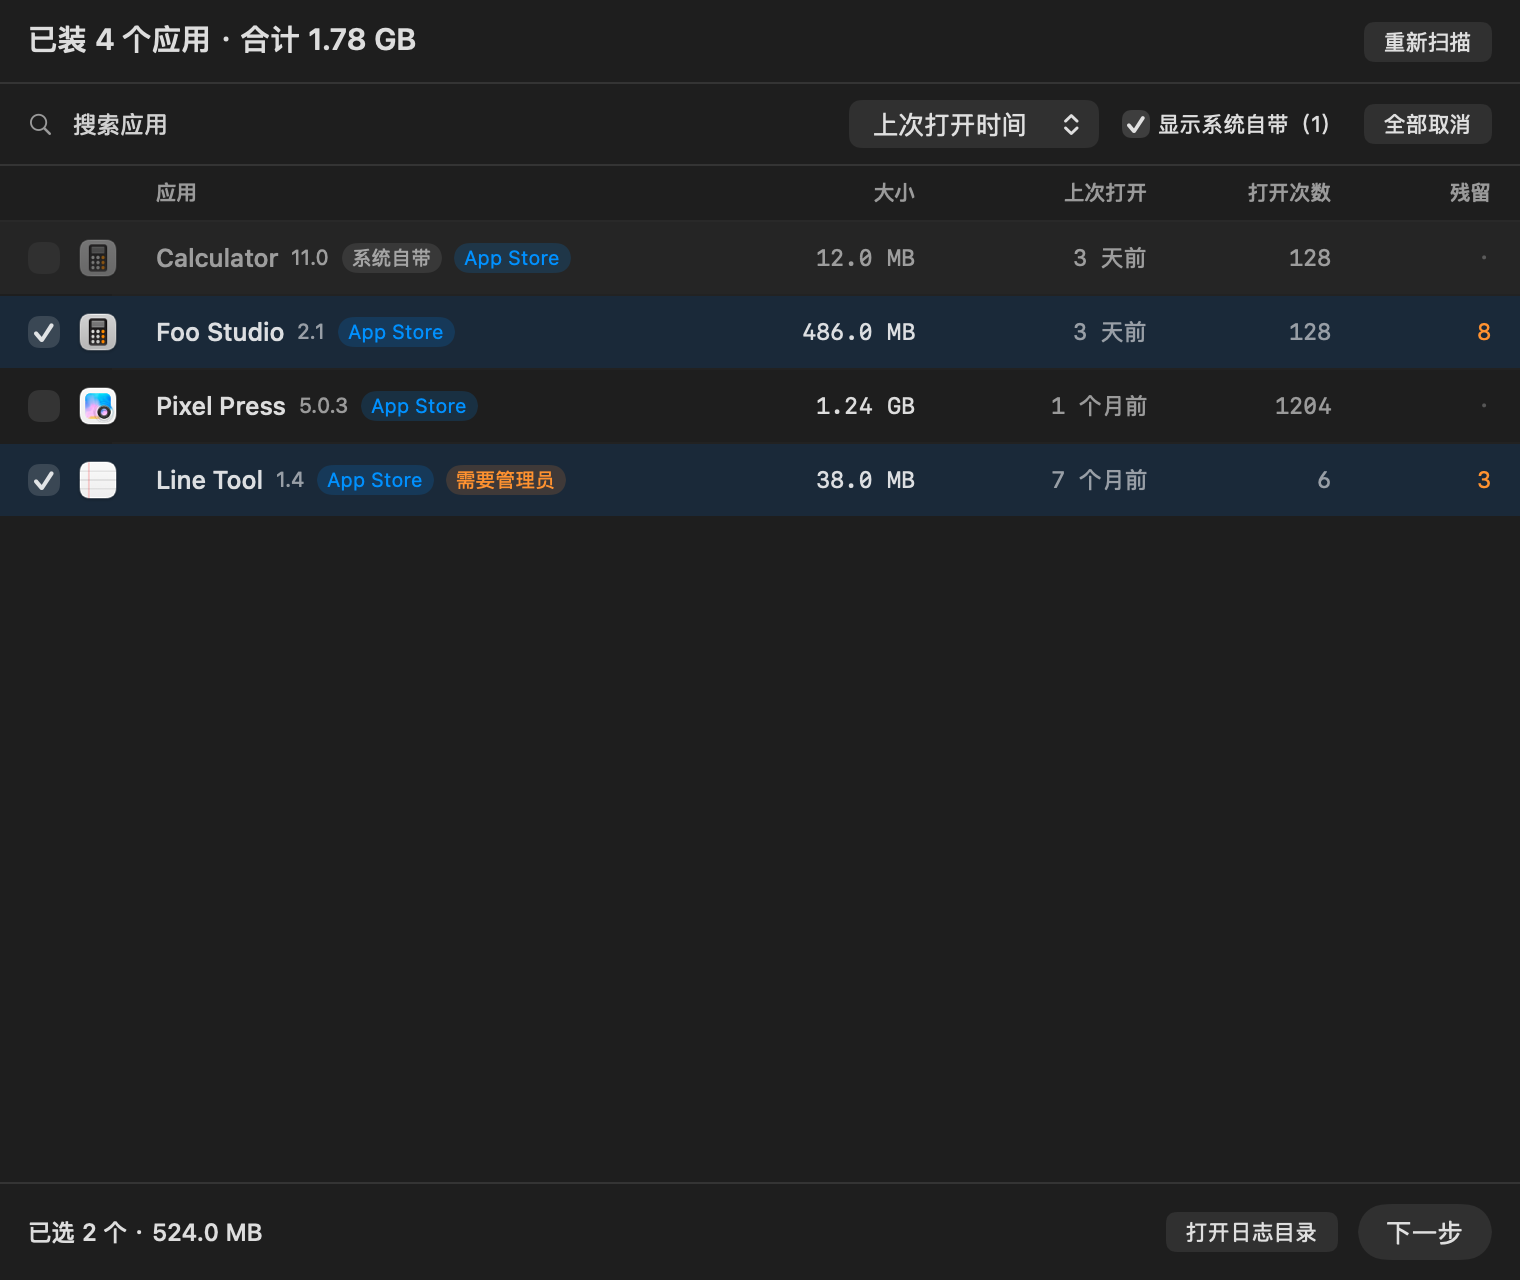
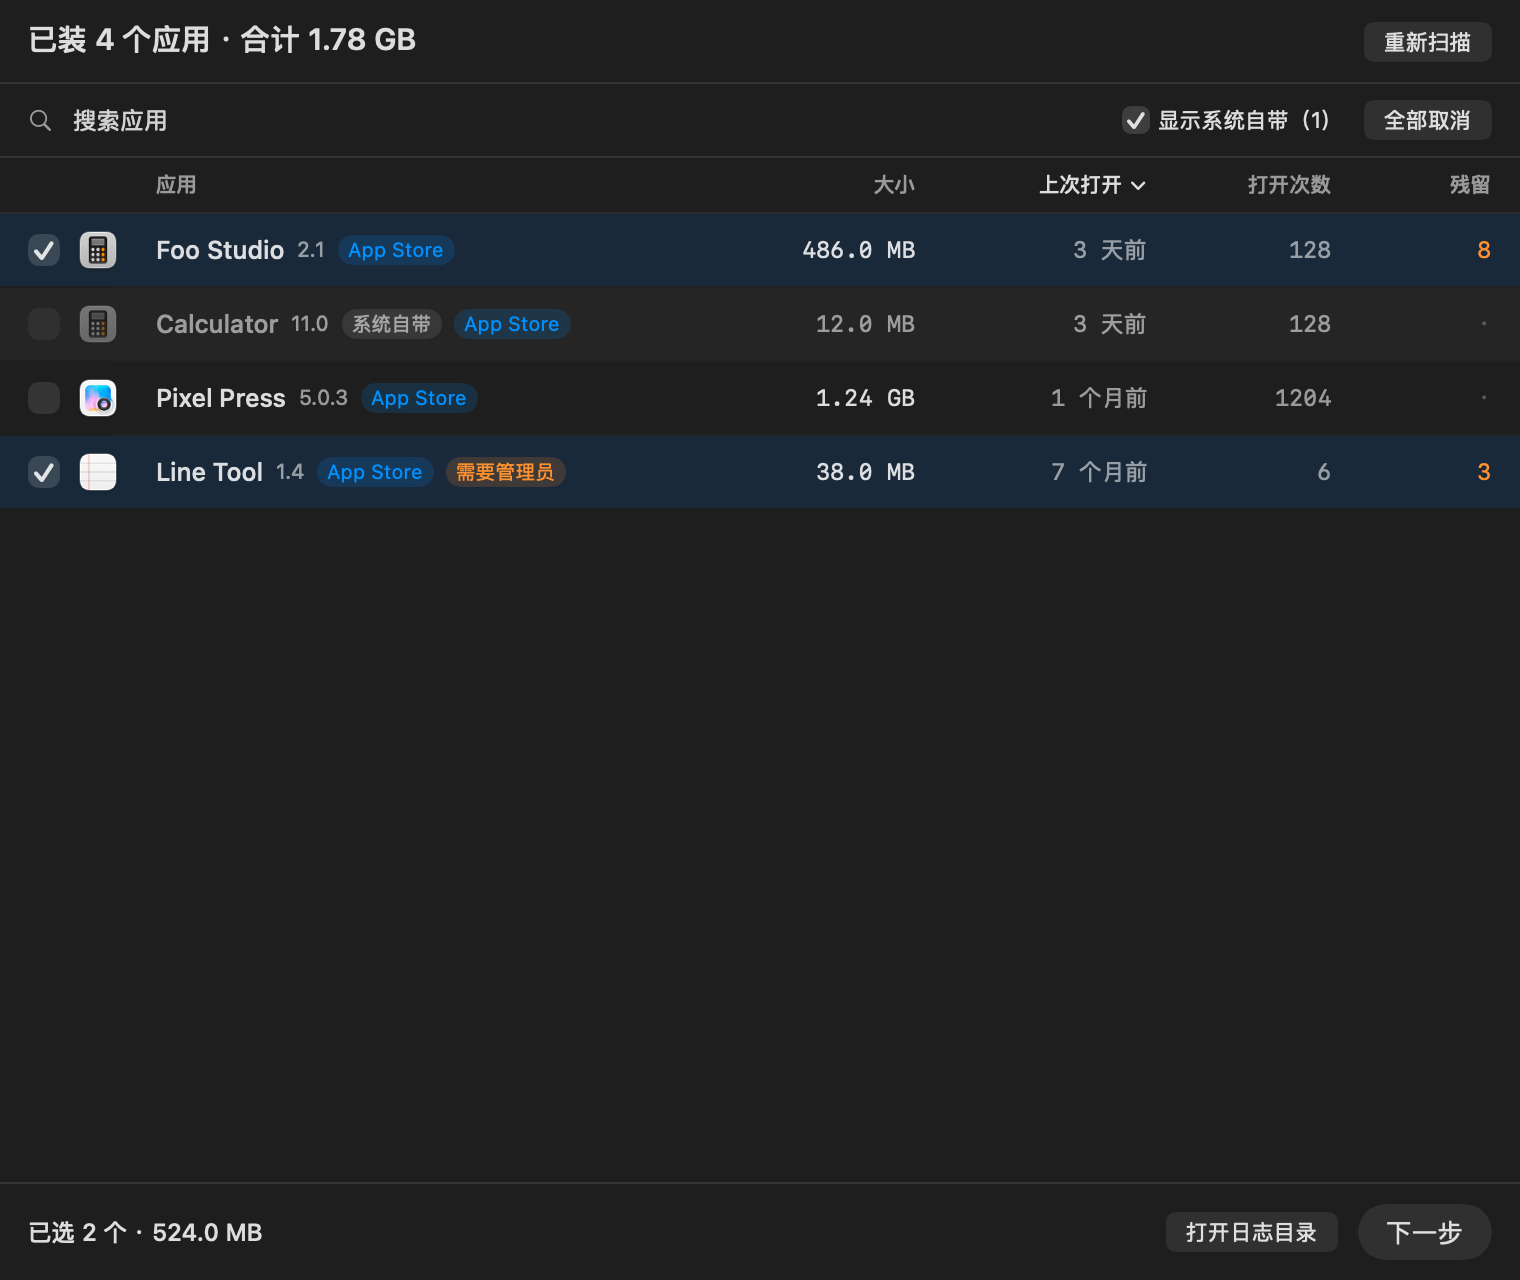
list: click table headers to sort (again to reverse) instead of a sort menu

Changed region(s): [[0.0, 0.0625, 1.0, 0.4062], [0.8967, 0.0625, 0.9586, 0.125], [0.0309, 0.0625, 0.0928, 0.125]]

diff --git a/src/UI.swift b/src/UI.swift
@@ -65,15 +65,6 @@ struct ContentView: View {
                 .textFieldStyle(.plain)
                 .font(.system(size: 12))
             Spacer()
-            Picker("", selection: $state.sortKey) {
-                ForEach(SortKey.allCases) { key in
-                    Text(key.label).tag(key)
-                }
-            }
-            .pickerStyle(.menu)
-            .labelsHidden()
-            .frame(width: 128)
-            .help("列表排序方式")
             Toggle("显示系统自带（\(state.systemCount)）", isOn: $state.showSystem)
                 .toggleStyle(.checkbox)
                 .controlSize(.small)
@@ -113,16 +104,47 @@ struct ContentView: View {
     private var tableHeader: some View {
         HStack(spacing: 8) {
             Color.clear.frame(width: Col.lead, height: 1)
-            Text("应用").frame(maxWidth: .infinity, alignment: .leading)
-            Text("大小").frame(width: Col.size, alignment: .trailing)
-            Text("上次打开").frame(width: Col.opened, alignment: .trailing)
-            Text("打开次数").frame(width: Col.opens, alignment: .trailing)
-            Text("残留").frame(width: Col.residue, alignment: .trailing)
+            headerCell(.nameAsc, width: nil, trailing: false)
+            headerCell(.size, width: Col.size, trailing: true)
+            headerCell(.lastOpened, width: Col.opened, trailing: true)
+            headerCell(.openCount, width: Col.opens, trailing: true)
+            Text("残留")
+                .foregroundStyle(.secondary)
+                .frame(width: Col.residue, alignment: .trailing)
+                .help("不给排序：这一列的数字是后台一条条数出来的")
         }
         .font(.system(size: 10.5, weight: .medium))
-        .foregroundStyle(.secondary)
         .padding(.horizontal, 14)
         .padding(.vertical, 7)
+    }
+
+    /// 表头一格：点一下按这一列排序，再点一下换方向；当前排序列显示箭头。
+    private func headerCell(_ key: SortKey, width: CGFloat?, trailing: Bool) -> some View {
+        let active = state.sortKey == key
+        let label = HStack(spacing: 3) {
+            if trailing { Spacer(minLength: 0) }
+            Text(key.label)
+            if active {
+                Image(systemName: state.sortAscending ? "chevron.up" : "chevron.down")
+                    .font(.system(size: 8, weight: .bold))
+            }
+            if !trailing { Spacer(minLength: 0) }
+        }
+        .foregroundStyle(active ? Color.primary : Color.secondary)
+
+        let button = Button { state.sort(by: key) } label: {
+            label.contentShape(Rectangle())
+        }
+        .buttonStyle(.plain)
+        .help("按「\(key.label)」排序，再点一次换方向")
+
+        return Group {
+            if let width {
+                button.frame(width: width)
+            } else {
+                button.frame(maxWidth: .infinity, alignment: .leading)
+            }
+        }
     }
 
     private func row(_ app: AppItem) -> some View {

diff --git a/src/Model.swift b/src/Model.swift
@@ -15,37 +15,44 @@ enum SortKey: String, CaseIterable, Identifiable {
     var label: String {
         switch self {
         case .size: return "大小"
-        case .lastOpened: return "上次打开时间"
+        case .lastOpened: return "上次打开"
         case .openCount: return "打开次数"
-        case .nameAsc: return "名称 A→Z"
+        case .nameAsc: return "应用"
         }
     }
 
-    /// 纯函数：没有时间的（—）永远排在后面，不参与比较。
-    static func sorted(_ apps: [AppItem], by key: SortKey) -> [AppItem] {
+    /// 表头第一次点这个列时的方向：数字列从大到小，名称从 A 到 Z。
+    var defaultAscending: Bool { self == .nameAsc }
+
+    /// 纯函数：没有时间或次数的（—）永远排在后面，不参与方向翻转。
+    /// ascending = true 表示这个列顺着排（名称 A→Z、数字从小到大）。
+    static func sorted(_ apps: [AppItem], by key: SortKey, ascending: Bool) -> [AppItem] {
+        func nameOrder(_ a: AppItem, _ b: AppItem) -> Bool {
+            a.name.localizedStandardCompare(b.name) == .orderedAscending
+        }
         switch key {
         case .size:
-            return apps.sorted { $0.bytes > $1.bytes }
+            return apps.sorted { ascending ? $0.bytes < $1.bytes : $0.bytes > $1.bytes }
         case .lastOpened:
             return apps.sorted { a, b in
                 switch (a.lastOpened, b.lastOpened) {
-                case let (x?, y?): return x > y            // 最近打开的在上
-                case (nil, _?): return false
+                case let (x?, y?): return ascending ? x < y : x > y
+                case (nil, _?): return false      // 没记录的永远在后
                 case (_?, nil): return true
-                case (nil, nil): return a.name.localizedStandardCompare(b.name) == .orderedAscending
+                case (nil, nil): return nameOrder(a, b)
                 }
             }
         case .openCount:
             return apps.sorted { a, b in
                 switch (a.openCount, b.openCount) {
-                case let (x?, y?): return x > y
+                case let (x?, y?): return ascending ? x < y : x > y
                 case (nil, _?): return false
                 case (_?, nil): return true
-                case (nil, nil): return a.name.localizedStandardCompare(b.name) == .orderedAscending
+                case (nil, nil): return nameOrder(a, b)
                 }
             }
         case .nameAsc:
-            return apps.sorted { $0.name.localizedStandardCompare($1.name) == .orderedAscending }
+            return apps.sorted { ascending ? nameOrder($0, $1) : nameOrder($1, $0) }
         }
     }
 }

diff --git a/src/SelfTest.swift b/src/SelfTest.swift
@@ -177,13 +177,20 @@ enum SelfTest {
         let apps = [app("Beta", bytes: 100, daysAgo: 5, opens: 900),
                     app("alpha", bytes: 300, daysAgo: nil, opens: nil),
                     app("Gamma", bytes: 200, daysAgo: 40, opens: 3)]
-        check(SortKey.sorted(apps, by: .size).map { $0.name } == ["alpha", "Gamma", "Beta"], "按大小：大的在前")
-        check(SortKey.sorted(apps, by: .lastOpened).map { $0.name } == ["Beta", "Gamma", "alpha"],
-              "按上次打开时间：最近打开的在上，没时间的排最后")
-        check(SortKey.sorted(apps, by: .openCount).map { $0.name } == ["Beta", "Gamma", "alpha"],
+        check(SortKey.sorted(apps, by: .size, ascending: false).map { $0.name } == ["alpha", "Gamma", "Beta"],
+              "按大小降序：大的在前")
+        check(SortKey.sorted(apps, by: .size, ascending: true).map { $0.name } == ["Beta", "Gamma", "alpha"],
+              "再点一次（升序）：小的在前")
+        check(SortKey.sorted(apps, by: .lastOpened, ascending: false).map { $0.name } == ["Beta", "Gamma", "alpha"],
+              "按上次打开时间：默认最近的在最上，没时间的排最后")
+        check(SortKey.sorted(apps, by: .lastOpened, ascending: true).map { $0.name } == ["Gamma", "Beta", "alpha"],
+              "翻转后：最久没打开的在前，没时间的仍在最后")
+        check(SortKey.sorted(apps, by: .openCount, ascending: false).map { $0.name } == ["Beta", "Gamma", "alpha"],
               "按打开次数：次数多的在前，没次数的排最后")
-        check(SortKey.sorted(apps, by: .nameAsc).map { $0.name } == ["alpha", "Beta", "Gamma"],
+        check(SortKey.sorted(apps, by: .nameAsc, ascending: true).map { $0.name } == ["alpha", "Beta", "Gamma"],
               "按名称 A→Z（不区分大小写）")
+        check(SortKey.sorted(apps, by: .nameAsc, ascending: false).map { $0.name } == ["Gamma", "Beta", "alpha"],
+              "名称翻转：Z→A")
     }
 
     // MARK: - 进清单的范围（拿不准的不进清单、不问用户）

diff --git a/src/AppState.swift b/src/AppState.swift
@@ -14,6 +14,9 @@ final class AppState: ObservableObject {
     @Published var sortKey: SortKey = SortKey(rawValue: UserDefaults.standard.string(forKey: "sortKey") ?? "") ?? .size {
         didSet { UserDefaults.standard.set(sortKey.rawValue, forKey: "sortKey") }
     }
+    @Published var sortAscending: Bool = UserDefaults.standard.object(forKey: "sortAscending") as? Bool ?? false {
+        didSet { UserDefaults.standard.set(sortAscending, forKey: "sortAscending") }
+    }
     @Published var scanning: Bool = true
     @Published var phase: String = "正在扫描已安装的应用…"
     @Published var scanningLine: String = ""
@@ -110,7 +113,7 @@ final class AppState: ObservableObject {
         if !showSystem { rows = rows.filter { !$0.protected } }
         let text = query.trimmingCharacters(in: .whitespaces).lowercased()
         if !text.isEmpty { rows = rows.filter { $0.name.lowercased().contains(text) } }
-        return SortKey.sorted(rows, by: sortKey)
+        return SortKey.sorted(rows, by: sortKey, ascending: sortAscending)
     }
 
     var selectedApps: [AppItem] { apps.filter { selection.contains($0.path) } }
@@ -128,6 +131,16 @@ final class AppState: ObservableObject {
     }
 
     func clearSelection() { selection = [] }
+
+    /// 点表头：换列就用该列的默认方向，点同一列则翻转方向。
+    func sort(by key: SortKey) {
+        if sortKey == key {
+            sortAscending.toggle()
+        } else {
+            sortKey = key
+            sortAscending = key.defaultAscending
+        }
+    }
 
     // MARK: - 清单
 

diff --git a/src/RenderDemo.swift b/src/RenderDemo.swift
@@ -35,6 +35,8 @@ enum RenderDemo {
         state.residueCount = ["/Applications/Foo Studio.app": 8, "/Applications/Line Tool.app": 3]
         state.scanning = false
         state.showSystem = true        // 出图时把系统自带那条也画出来，方便核对行的差别
+        state.sortKey = .lastOpened
+        state.sortAscending = false
         state.suppressAutoStart = true
         return state
     }

diff --git a/README.md b/README.md
@@ -40,7 +40,7 @@ Hard gates run before anything is deleted:
 
 Install: open `FullCleaner-<version>.dmg` and drag **FullCleaner** into Applications. Builds are ad-hoc signed and not notarized, so the first launch may need **right-click → Open** (or `xattr -d com.apple.quarantine /Applications/FullCleaner.app`).
 
-GUI: check one or more apps (the table shows size, last opened, launch count, leftover count) → **下一步 / Next** → review the list → **Uninstall**.
+GUI: check one or more apps (the table shows size, last opened, launch count, leftover count — **click a column header to sort by it, click again to reverse**) → **Next** → review the list → **Uninstall**.
 
 CLI (same binary):
 
